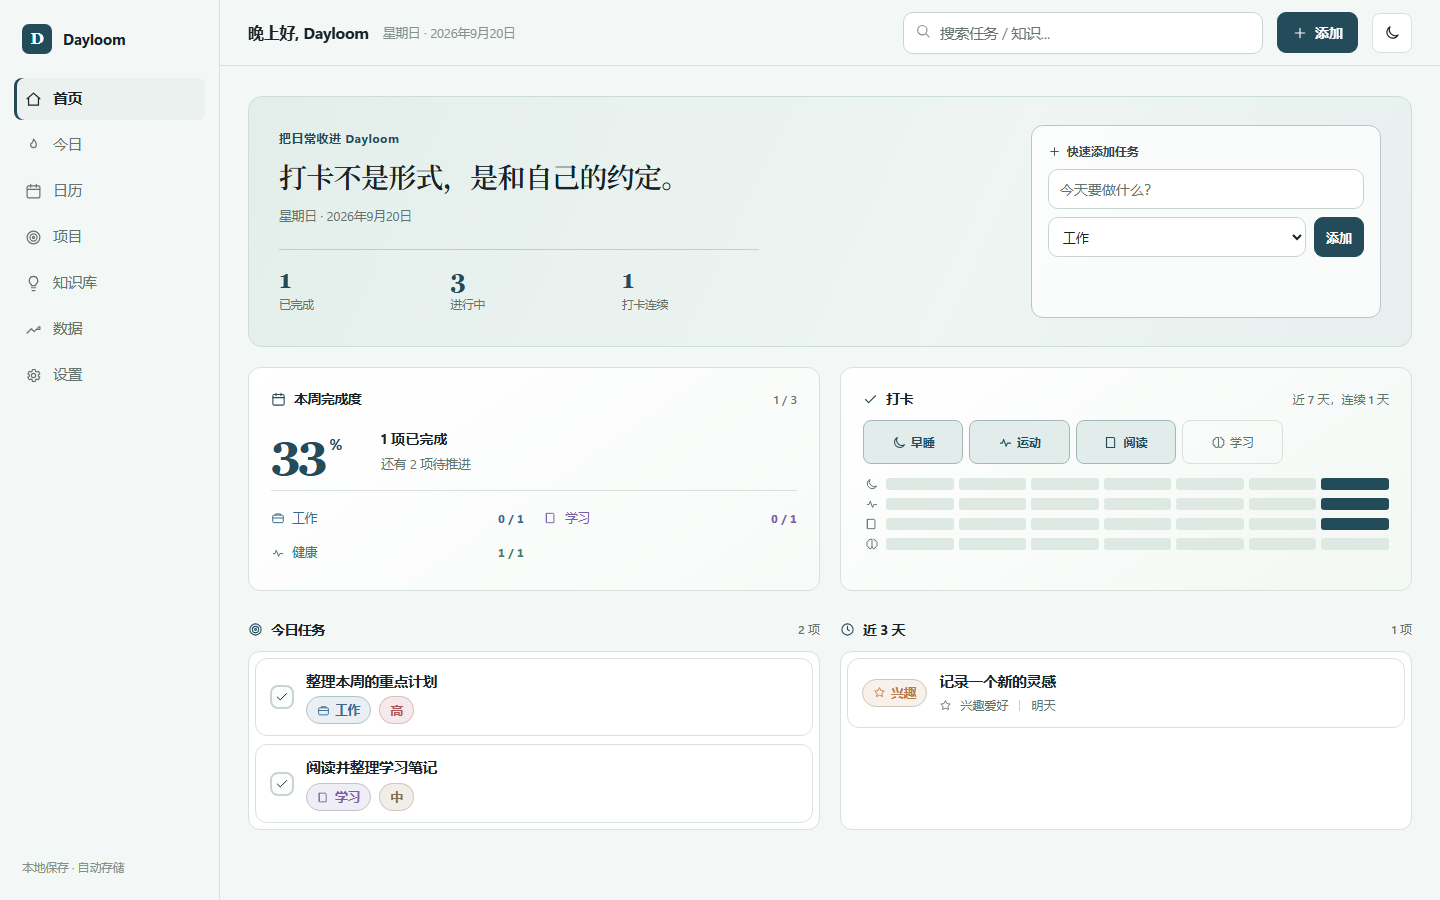
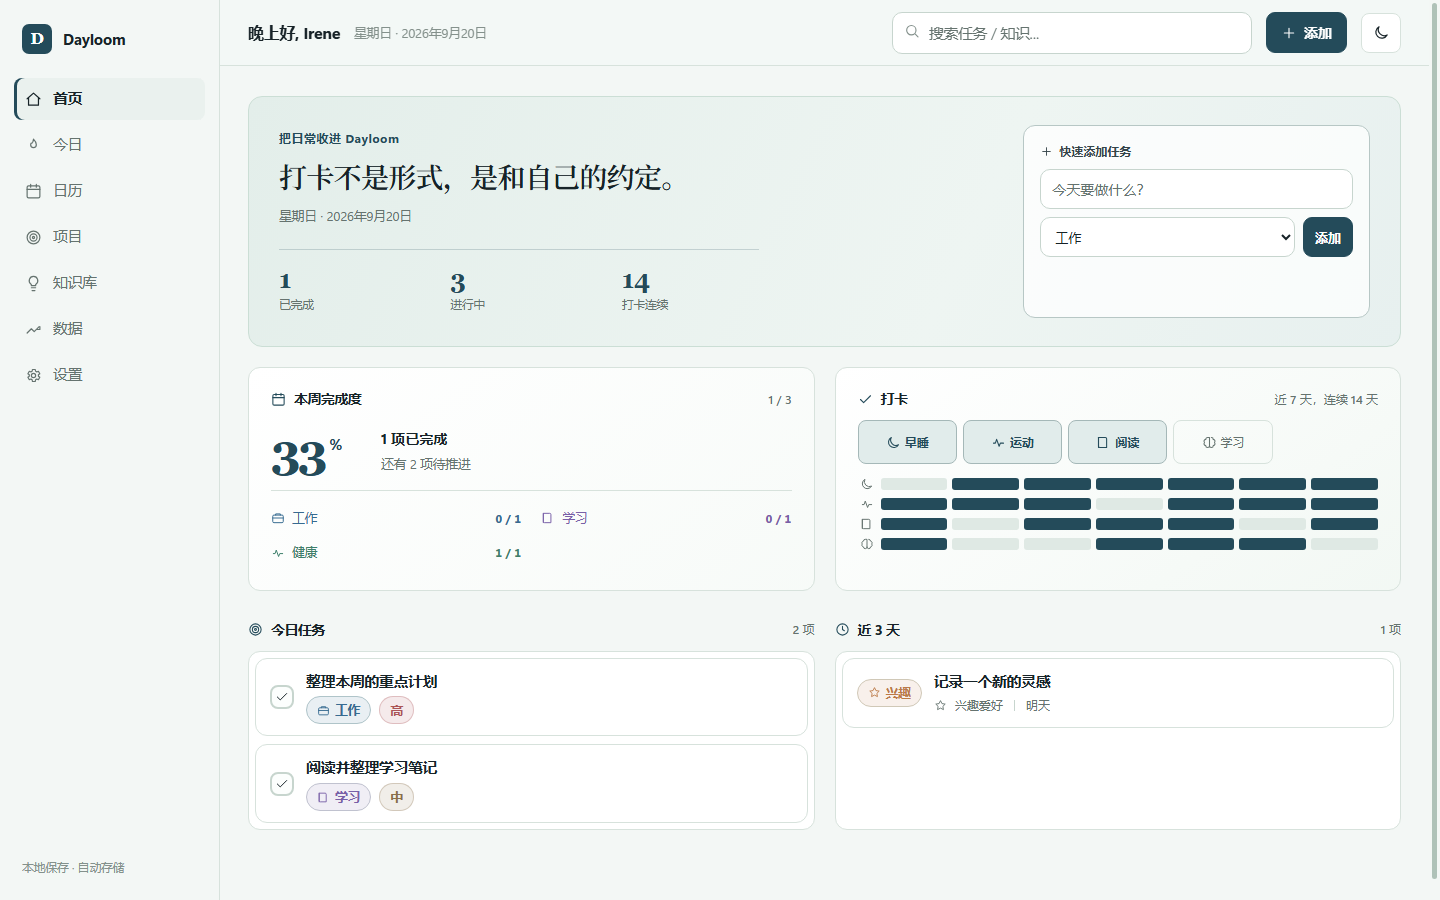
Expand Dayloom product gallery

diff --git a/scripts/capture-readme.js b/scripts/capture-readme.js
@@ -1,0 +1,80 @@
+/* Capture privacy-safe Dayloom screenshots through a running Chrome DevTools port. */
+'use strict';
+const fs=require('node:fs');
+const path=require('node:path');
+
+const endpoint=process.env.CDP_ENDPOINT||'http://127.0.0.1:9223';
+const site=process.env.DAYLOOM_URL||'http://127.0.0.1:8791/index.html';
+const output=path.join(__dirname,'..','assets');
+fs.mkdirSync(output,{recursive:true});
+
+async function connect(){
+  const pages=await fetch(endpoint+'/json/list').then(r=>r.json());
+  const target=pages.find(p=>p.type==='page');
+  if(!target) throw new Error('No Chrome page target found');
+  const socket=new WebSocket(target.webSocketDebuggerUrl);
+  await new Promise((resolve,reject)=>{socket.onopen=resolve;socket.onerror=reject;});
+  let id=0;
+  const pending=new Map();
+  socket.onmessage=event=>{
+    const msg=JSON.parse(event.data);
+    if(msg.id&&pending.has(msg.id)){
+      const {resolve,reject}=pending.get(msg.id);pending.delete(msg.id);
+      msg.error?reject(new Error(msg.error.message)):resolve(msg.result);
+    }
+  };
+  const call=(method,params={})=>new Promise((resolve,reject)=>{const callId=++id;pending.set(callId,{resolve,reject});socket.send(JSON.stringify({id:callId,method,params}));});
+  return {socket,call};
+}
+
+const demoState=`(()=>{
+  const d=seed(), now=new Date(), today=isoLocal(now), tomorrow=addDaysISO(today,1);
+  d.settings.name='Irene';
+  d.tasks=[
+    {id:'demo1',title:'整理本周的重点计划',project:'work',priority:'high',status:'inprogress',due:today,time:'09:30',completed:false,notes:''},
+    {id:'demo2',title:'阅读并整理学习笔记',project:'learning',priority:'medium',status:'backlog',due:today,time:'14:00',completed:false,notes:''},
+    {id:'demo3',title:'完成 30 分钟运动',project:'health',priority:'medium',status:'done',due:today,time:'18:30',completed:true,notes:''},
+    {id:'demo4',title:'记录一个新的灵感',project:'hobby',priority:'low',status:'backlog',due:tomorrow,time:'',completed:false,notes:''}
+  ];
+  const patterns=[[1,1,1,1],[1,0,1,1],[1,1,0,1],[0,1,1,0],[1,1,1,1],[1,0,1,0],[1,1,1,1],[0,1,1,1],[1,1,0,0],[1,1,1,0],[1,0,1,1],[1,1,1,1],[1,1,0,1],[1,1,1,0]];
+  const moods=['🙂','🤩','😐','🙂','🙂','😕','🤩','🙂','😐','🙂','🤩','🙂','🙂','🙂'];
+  patterns.forEach((p,i)=>{const date=addDaysISO(today,i-13);d.checkins[date]={sleep:!!p[0],exercise:!!p[1],reading:!!p[2],study:!!p[3]};d.moods[date]=moods[i];});
+  d.notes[today]='今天专注完成最重要的事，也给新的想法留一点空间。';
+  const cards=[
+    ['稳定的进步来自可持续的小行动，而不是偶尔的高强度投入。',['成长/习惯']],
+    ['记录的价值不只是保存答案，也是在为未来留下重新思考的入口。',['知识管理/记录']],
+    ['当任务太大时，把下一步缩小到可以立刻开始，行动阻力就会明显下降。',['效率/行动']],
+    ['阅读不是收集更多信息，而是让新观点与已有经验发生联系。',['学习/阅读']],
+    ['好的系统应该帮助人看见重点，同时允许生活保留弹性。',['产品/设计']]
+  ];
+  d.knowledge=cards.map((c,i)=>({id:'demo-k'+i,text:c[0],tags:c[1],created:new Date(now.getTime()-i*86400000).toISOString(),favorite:i===0,reviewCount:i}));
+  S=d;hydrateDefinitions();save();render();
+})()`;
+
+async function main(){
+  const {socket,call}=await connect();
+  await call('Page.enable');await call('Runtime.enable');
+  await call('Emulation.setDeviceMetricsOverride',{width:1440,height:900,deviceScaleFactor:1,mobile:false});
+  await call('Page.navigate',{url:site});
+  await new Promise(r=>setTimeout(r,1300));
+  await call('Runtime.evaluate',{expression:demoState,awaitPromise:true});
+  await new Promise(r=>setTimeout(r,350));
+
+  async function shot(name,expression,width=1440,height=900){
+    await call('Emulation.setDeviceMetricsOverride',{width,height,deviceScaleFactor:1,mobile:false});
+    await call('Runtime.evaluate',{expression,awaitPromise:true});
+    await new Promise(r=>setTimeout(r,180));
+    const result=await call('Page.captureScreenshot',{format:'png',fromSurface:true,captureBeyondViewport:false});
+    fs.writeFileSync(path.join(output,name),Buffer.from(result.data,'base64'));
+  }
+
+  await shot('dayloom-dashboard.png',`view='home';S.settings.palette='calm';document.documentElement.dataset.palette='calm';render()`);
+  await shot('dayloom-knowledge.png',`view='knowledge';S.settings.palette='calm';document.documentElement.dataset.palette='calm';render()`);
+  await shot('dayloom-data.png',`view='statistics';S.settings.palette='calm';document.documentElement.dataset.palette='calm';render()`);
+  for(const palette of ['yellow','purple','blue','pink']){
+    await shot('theme-'+palette+'.png',`view='home';S.settings.palette='${palette}';document.documentElement.dataset.palette='${palette}';render()`,1120,620);
+  }
+  socket.close();
+}
+
+main().catch(error=>{console.error(error);process.exitCode=1;});

diff --git a/README.md b/README.md
@@ -10,6 +10,26 @@
 
 ![Dayloom 工作台首页](assets/dayloom-dashboard.png)
 
+## 知识与回顾
+
+Dayloom 不只安排待办。知识卡片通过分级标签持续积累，数据页则把任务、习惯和每日心情放进同一条时间线。
+
+<p>
+  <img src="assets/dayloom-knowledge.png" alt="Dayloom 知识库" width="49%">
+  <img src="assets/dayloom-data.png" alt="Dayloom 数据回顾" width="49%">
+</p>
+
+## 选择喜欢的颜色
+
+内容与功能保持一致，可以在设置中随时切换整套界面配色。
+
+<p>
+  <img src="assets/theme-yellow.png" alt="Dayloom 黄色主题" width="24%">
+  <img src="assets/theme-purple.png" alt="Dayloom 紫色主题" width="24%">
+  <img src="assets/theme-blue.png" alt="Dayloom 蓝色主题" width="24%">
+  <img src="assets/theme-pink.png" alt="Dayloom 粉色主题" width="24%">
+</p>
+
 ## 你可以用 Dayloom 做什么
 
 - **安排任务**：按项目和状态管理工作、学习与生活，快速看清今天和未来三天。
